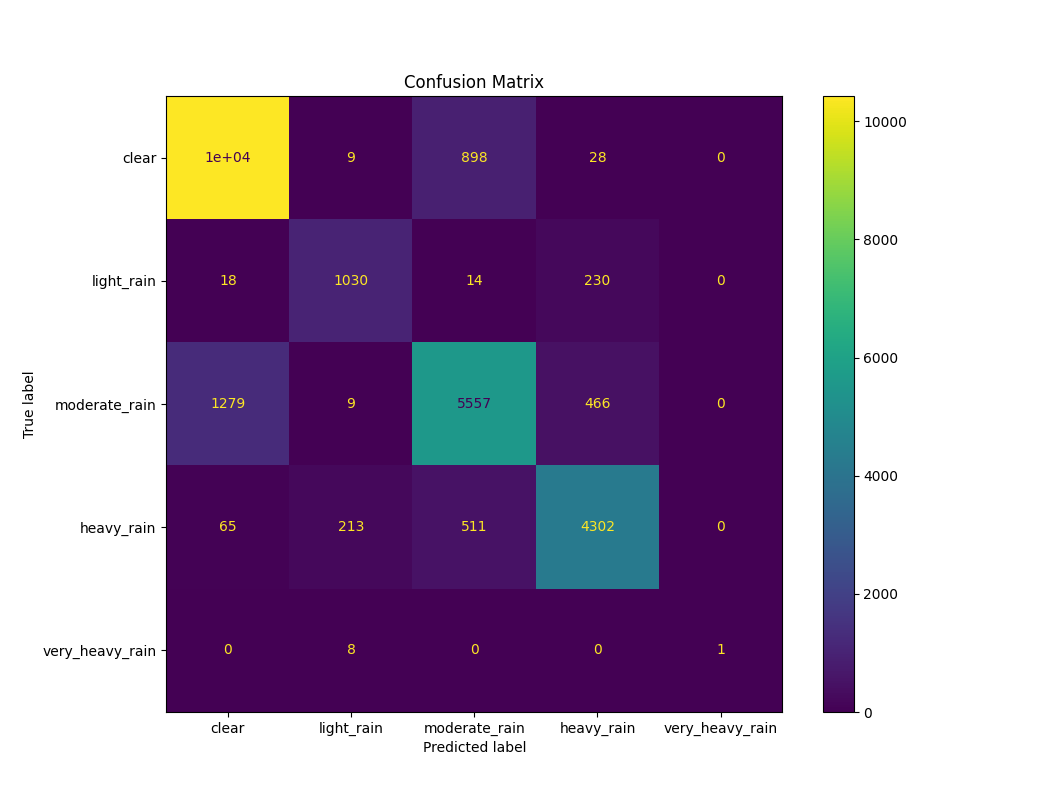
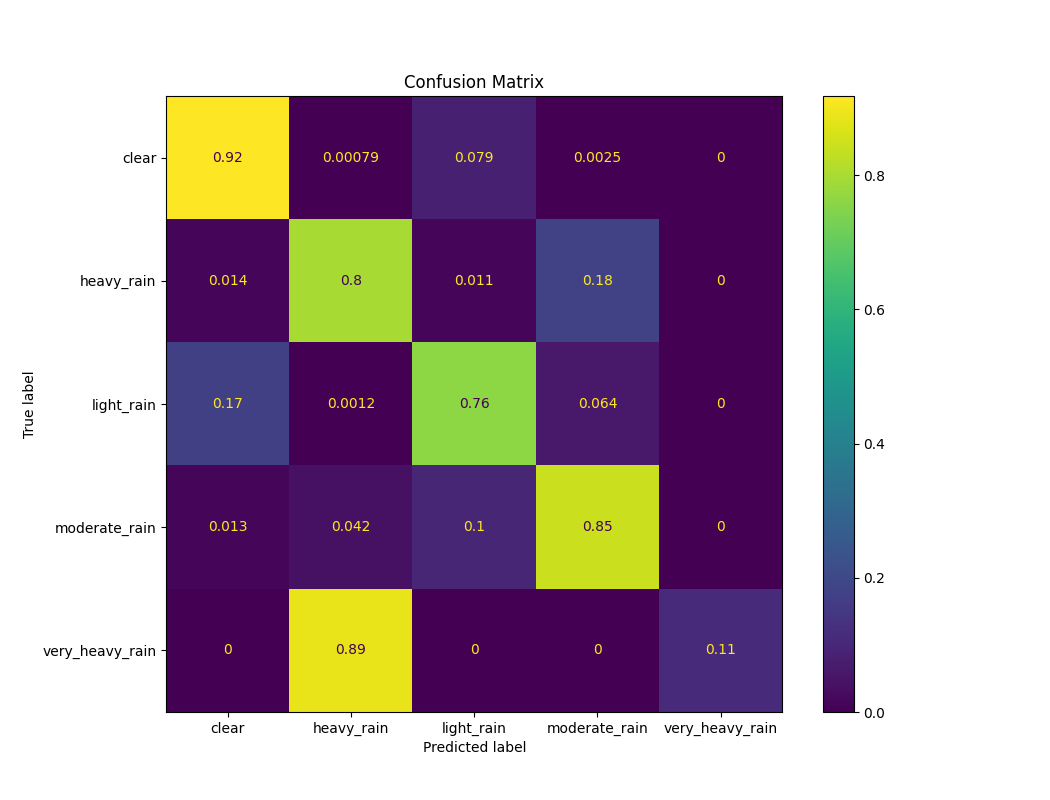
update

diff --git a/5.model.py b/5.model.py
@@ -457,10 +457,11 @@ def plot_confusion_matrix(labels, predictions, save_path, draw=True):
   
   if draw:
     _, ax = plt.subplots(figsize=(10.5, 8))
-    display_labels = ['clear', 'light_rain', 'moderate_rain', 'heavy_rain', 'very_heavy_rain']
+    display_labels = ['clear', 'heavy_rain', 'light_rain', 'moderate_rain', 'very_heavy_rain']
     ConfusionMatrixDisplay.from_predictions(labels,
                                             predictions,
-                                            display_labels=display_labels, 
+                                            display_labels=display_labels,
+                                            normalize='true', 
                                             ax=ax)
     plt.title('Confusion Matrix')
     plt.savefig(f'{save_path}/confusion_matrix.png')
